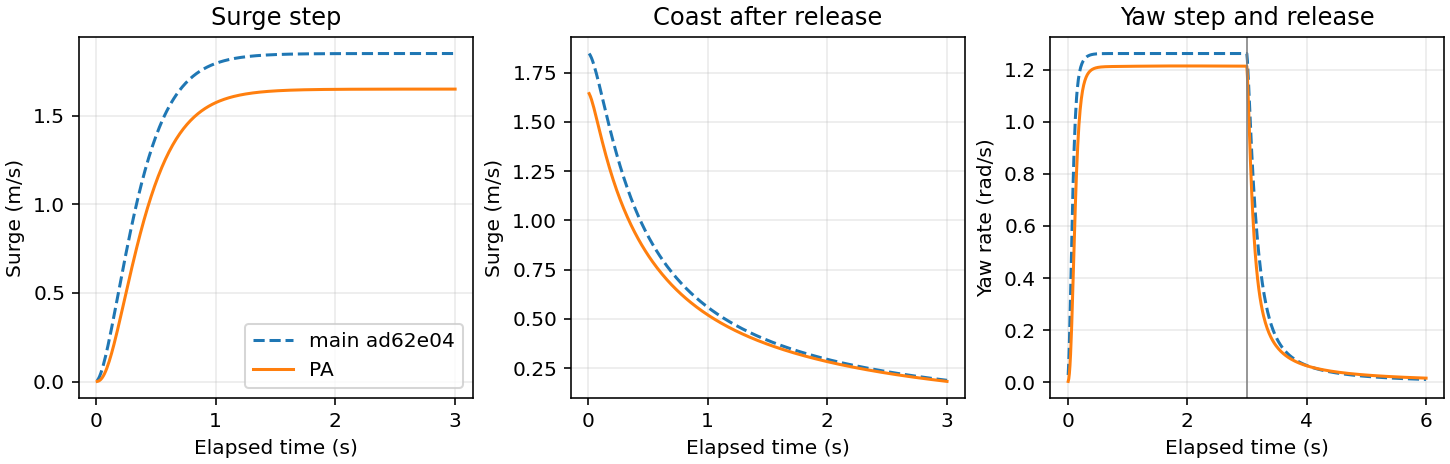
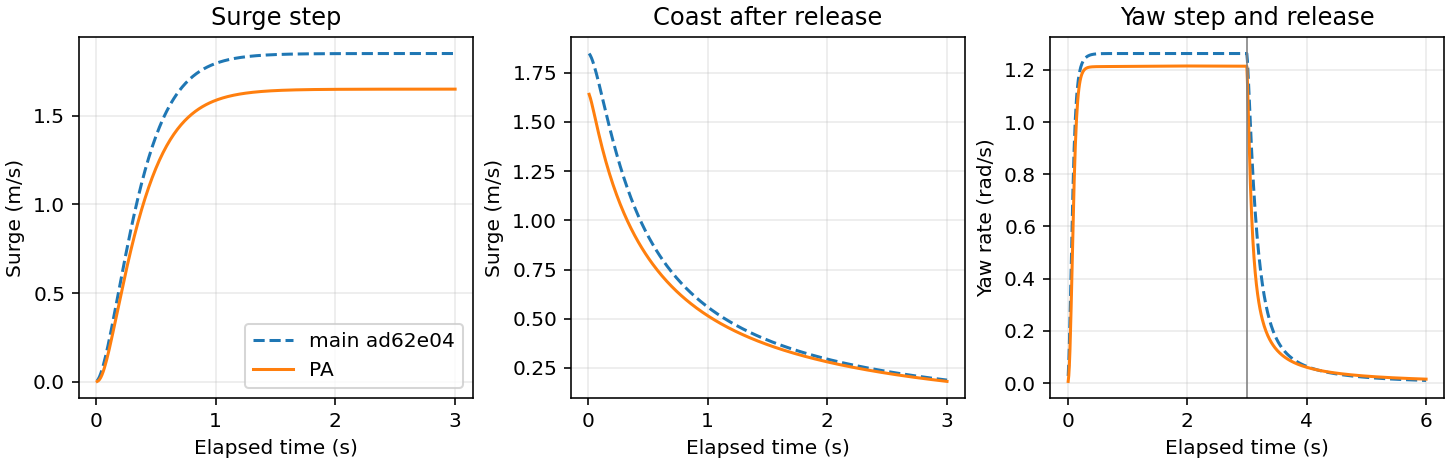
Preserve bollard-force rise time when converting to a shaft pole

diff --git a/simulator/qysim/vehicles.py b/simulator/qysim/vehicles.py
@@ -12,6 +12,11 @@ from .model_o import (
     ADDED_INERTIA, COMBINED_INERTIA, MEASURED_RATE, MEASURED_SPEED, MOTOR_TAU, NET_BUOYANCY_N, NOMINAL_FORWARD_N,
 )
 
+def shaft_time_constant(force_tau):
+    """Match the original bollard-force 63.2% step time with T proportional to n²."""
+    return -force_tau / math.log1p(-math.sqrt(-math.expm1(-1.0)))
+
+
 # Keys are the VehicleParams fields this entry overrides. Every value is traced in the calibration note.
 MODEL_O_ASSIST_GAIN = 3.0  # Reference-filter stiffness scale at full acceleration fraction.
 MODEL_O_PARAMS = {
@@ -21,7 +26,7 @@ MODEL_O_PARAMS = {
     "added_mass": (6.36, 7.12, 18.68),
     "inertia": COMBINED_INERTIA,
     "thruster_max": NOMINAL_FORWARD_N,
-    "motor_tau": -MOTOR_TAU / math.log1p(-math.sqrt(-math.expm1(-1.0))),
+    "motor_tau": shaft_time_constant(MOTOR_TAU),
     "vmax": MEASURED_SPEED,
     "wmax": MEASURED_RATE,
     "linear_drag": (13.7, 0.0, 33.0, 0.0, 0.8, 0.0),
@@ -63,7 +68,8 @@ X1_PARAMETERS = {'mass': {'value': 30.0, 'level': 'official', 'source': 'real-ro
  'thruster_max': {'value': 148.0,
                   'level': 'estimated',
                   'source': '暫定工程估算；非 X1 實測，見 real-rov-research.md 對齊清單'},
- 'motor_tau': {'value': 0.08, 'level': 'estimated', 'source': '暫定工程估算；非 X1 實測，見 real-rov-research.md 對齊清單'},
+ 'motor_tau': {'value': shaft_time_constant(.08), 'level': 'estimated',
+               'source': '暫定：沿用原繫樁推力上升時間 0.08 s，以 T ∝ n² 換算槳軸時間常數；待同步記錄轉速／推力'},
  'vmax': {'value': (2.314998, 1.28611, 0.771666),
           'level': 'reseller',
           'source': 'real-rov-research.md: 經銷商分軸速度；前進亦有官網宣稱'},
@@ -208,6 +214,8 @@ class HydroFit:
     kt_slope: float       # fractional bollard loss per unit positive advance ratio
     hull_loss: float      # estimated blocked fraction of disk thrust
     wake_loss: float      # additional fraction for unit coincident downstream disk
+    dry_depth_d: float = -.5   # hub half a diameter above the surface: even the lowest blade is dry
+    wet_depth_d: float = 1.    # assumed immersion for ventilation-free operation, in diameters
 
 
 HYDRO_FITS = {
@@ -216,6 +224,20 @@ HYDRO_FITS = {
     # Table A1 uses coincident principal axes. Published in-water coefficients
     # already include installation effects; allow only residual losses on this fit.
     "bluerov2_heavy": HydroFit(0., ADDED_INERTIA, .076, 65., .08, .002, .03),
+}
+
+# All catalogue fit values for X1 are provisional; evidence inventory export reads
+# the actual HydroFit so corrections need only be made in one place.
+X1_HYDRO_SOURCES = {
+    "added_centre_z": "暫定：流體慣性中心取 CG 上方半個 GM",
+    "rotary_added": "暫定：原有效轉動慣量的四分之一歸於附加慣量",
+    "diameter": "暫定：依重建導管外形估算槳徑，m",
+    "rated_rps": "暫定：設計工作點轉速假設，rev/s，待光學轉速計校正",
+    "kt_slope": "暫定：以線性開水域近似，一單位前進比損失三成靜推力",
+    "hull_loss": "暫定：機身裝機遮蔽造成的靜推力損失比例",
+    "wake_loss": "暫定：同軸近距離雙槳損失比例上界，再依軸距與橫距衰減",
+    "dry_depth_d": "暫定：槳心高於水面半個槳徑時全槳離水",
+    "wet_depth_d": "暫定：槳心在水面下一個槳徑時吸氣消失",
 }
 
 X1_THRUSTERS = X1_PARAMETERS["thrusters"]["value"]
@@ -283,7 +305,7 @@ VEHICLE_DEFINITIONS = {
         (-.20, 0., -.15), (.245, 0., -.015), ((.24, -.18, -.09), (.24, .18, -.09)), (.18, 0., .15)),
     "falcon": VehicleDefinition("falcon", "Falcon", "models/falcon.glb",
         dict(mass=60., reverse_ratio=.9, net_buoyancy=5., gm=.095, added_mass=(30., 45., 55.),
-             inertia=(4., 7., 8.), thruster_max=110., motor_tau=.18,
+             inertia=(4., 7., 8.), thruster_max=110., motor_tau=shaft_time_constant(.18),
              vmax=(1.5, 1., .6), wmax=(.5, .5, .8), linear_drag=(18., 28., 35., 3., 4., 4.)),
         tuple((f"T{i+1} HORIZONTAL", (x*.29, y*.16, .075), (.86, -x*y*.51, 0.))
               for i, (x,y) in enumerate(((1,-1),(1,1),(-1,-1),(-1,1))))

diff --git a/docs/reference/export_x1_parameters.py b/docs/reference/export_x1_parameters.py
@@ -3,17 +3,20 @@ from pathlib import Path
 import sys
 
 sys.path.insert(0, str(Path(__file__).resolve().parents[2] / 'simulator'))
-from qysim.vehicles import X1_PARAMETERS, X1_TETHER_PARAMETERS
+from qysim.vehicles import HYDRO_FITS, X1_HYDRO_SOURCES, X1_PARAMETERS, X1_TETHER_PARAMETERS
 
 
 def main():
-    lines = ['# X1 暫定參數', '', '唯一數值來源：`simulator/qysim/vehicles.py:X1_PARAMETERS`。',
+    lines = ['# X1 暫定參數', '', '參數及來源集中於 `simulator/qysim/vehicles.py`。',
              '實測後只改該表，再執行 `python docs/reference/export_x1_parameters.py`。',
              '目前沒有 measured；official 是廠商宣稱，reseller 是單一經銷商，estimated 是假設。', '',
              '| 參數 | 值（SI） | 等級 | 依據 |', '|---|---|---|---|']
     for key, item in {**X1_PARAMETERS, **{f"tether.{key}": item
                                         for key, item in X1_TETHER_PARAMETERS.items()}}.items():
         lines.append(f'| {key} | `{item["value"]}` | {item["level"]} | {item["source"]} |')
+    for key, source in X1_HYDRO_SOURCES.items():
+        value = getattr(HYDRO_FITS['x1'], key)
+        lines.append(f'| hydro.{key} | `{value}` | estimated | {source} |')
     Path(__file__).with_name('x1-parameters.md').write_text('\n'.join(lines) + '\n')
 
 

diff --git a/simulator/qysim/physics.py b/simulator/qysim/physics.py
@@ -370,7 +370,8 @@ class Vehicle:
         wake = self.forward_wake @ np.maximum(shaft, 0) + self.reverse_wake @ np.maximum(-shaft, 0)
         # Fully ventilated one radius above water, fully immersed one diameter below.
         depth = s.pos[2] + self.disks @ q_matrix(s.q)[2]
-        immersion = np.clip((depth / self.fit.diameter + .5) / 1.5, 0., 1.)
+        wet_range = self.fit.wet_depth_d - self.fit.dry_depth_d
+        immersion = np.clip((depth / self.fit.diameter - self.fit.dry_depth_d) / wet_range, 0., 1.)
         gain = np.clip(1 - self.fit.kt_slope * np.maximum(advance, 0), 0., 1.)
         gain *= immersion * np.maximum(0., 1 - self.fit.hull_loss - self.fit.wake_loss * wake)
         return shaft, p.thruster_max * shaft * abs(shaft) * gain

diff --git a/docs/reference/x1-parameters.md b/docs/reference/x1-parameters.md
@@ -1,6 +1,6 @@
 # X1 暫定參數
 
-唯一數值來源：`simulator/qysim/vehicles.py:X1_PARAMETERS`。
+參數及來源集中於 `simulator/qysim/vehicles.py`。
 實測後只改該表，再執行 `python docs/reference/export_x1_parameters.py`。
 目前沒有 measured；official 是廠商宣稱，reseller 是單一經銷商，estimated 是假設。
 
@@ -12,11 +12,11 @@
 | added_mass | `(15.0, 25.0, 30.0)` | estimated | 暫定工程估算；非 X1 實測，見 real-rov-research.md 對齊清單 |
 | inertia | `(1.1, 1.6, 1.8)` | estimated | 暫定工程估算；非 X1 實測，見 real-rov-research.md 對齊清單 |
 | thruster_max | `148.0` | estimated | 暫定工程估算；非 X1 實測，見 real-rov-research.md 對齊清單 |
-| motor_tau | `0.08` | estimated | 暫定工程估算；非 X1 實測，見 real-rov-research.md 對齊清單 |
+| motor_tau | `0.05047196008277468` | estimated | 暫定：沿用原繫樁推力上升時間 0.08 s，以 T ∝ n² 換算槳軸時間常數；待同步記錄轉速／推力 |
 | vmax | `(2.314998, 1.28611, 0.771666)` | reseller | real-rov-research.md: 經銷商分軸速度；前進亦有官網宣稱 |
 | wmax | `(2.0943951023931953, 1.5707963267948966, 1.5707963267948966)` | estimated | 暫定工程估算；非 X1 實測，見 real-rov-research.md 對齊清單 |
 | quadratic_drag | `None` | estimated | 暫定工程估算；非 X1 實測，見 real-rov-research.md 對齊清單 |
-| reverse_ratio | `1.0` | estimated | 暫定工程估算；非 X1 實測，見 real-rov-research.md 對齊清單 |
+| reverse_ratio | `0.9` | estimated | 暫定工程估算；非 X1 實測，見 real-rov-research.md 對齊清單 |
 | thrust_asymmetry | `True` | estimated | 暫定工程估算；非 X1 實測，見 real-rov-research.md 對齊清單 |
 | linear_drag | `(8.0, 12.0, 15.0, 1.0, 1.0, 1.0)` | estimated | 暫定工程估算；非 X1 實測，見 real-rov-research.md 對齊清單 |
 | thrusters | `(('T1 PORT_FRONT', (0.25, -0.193, 0.032), (0.32, -0.54, -0.78)), ('T2 STBD_FRONT', (0.25, 0.193, 0.032), (0.32, 0.54, -0.78)), ('T3 PORT_AFT', (-0.251, -0.171, -0.035), (-0.28, -0.48, 0.83)), ('T4 STBD_AFT', (-0.251, 0.171, -0.035), (-0.28, 0.48, 0.83)), ('T5 PORT_LONG', (-0.061, -0.205, 0.068), (-1.0, 0.0, 0.0)), ('T6 STBD_LONG', (-0.061, 0.205, 0.068), (-1.0, 0.0, 0.0)))` | estimated | Blender 重建／工程假設，非實測；見 real-rov-research.md 幾何缺口 |
@@ -80,3 +80,12 @@
 | tether.substeps | `10` | estimated | 數值求解設定，非物理量；見 tether_solver.py |
 | tether.contact_cache_m | `0.01` | estimated | 數值求解設定，非物理量；見 tether_solver.py |
 | tether.accelerated | `True` | estimated | 數值求解設定，非物理量；見 tether_solver.py |
+| hydro.added_centre_z | `-0.015` | estimated | 暫定：流體慣性中心取 CG 上方半個 GM |
+| hydro.rotary_added | `(0.275, 0.4, 0.45)` | estimated | 暫定：原有效轉動慣量的四分之一歸於附加慣量 |
+| hydro.diameter | `0.11` | estimated | 暫定：依重建導管外形估算槳徑，m |
+| hydro.rated_rps | `65.0` | estimated | 暫定：設計工作點轉速假設，rev/s，待光學轉速計校正 |
+| hydro.kt_slope | `0.3` | estimated | 暫定：以線性開水域近似，一單位前進比損失三成靜推力 |
+| hydro.hull_loss | `0.015` | estimated | 暫定：機身裝機遮蔽造成的靜推力損失比例 |
+| hydro.wake_loss | `0.12` | estimated | 暫定：同軸近距離雙槳損失比例上界，再依軸距與橫距衰減 |
+| hydro.dry_depth_d | `-0.5` | estimated | 暫定：槳心高於水面半個槳徑時全槳離水 |
+| hydro.wet_depth_d | `1.0` | estimated | 暫定：槳心在水面下一個槳徑時吸氣消失 |

diff --git a/docs/tasks/PA-vehicle-hydro.md b/docs/tasks/PA-vehicle-hydro.md
@@ -7,7 +7,7 @@
 - 剛體質量矩陣在 CG 的主軸上為對角矩陣。將流體主軸的附加動能寫成 ½(Tνᵣ)ᵀA(Tνᵣ)，其中 T 把速度移到流體慣性中心，得到 CG 處的完整矩陣 TᵀAT。左右對稱保留零項。X1 暫定流體中心在 CG 上方 15 mm，故前進－俯仰的交叉項為 −0.225 kg·m。Model O 使用論文的對角模型。
 - 依線與角動量組成反對稱的科氏矩陣，分別以 ν 和 νᵣ 作用，包含 −vᵣ × pₐ 的 Munk 力矩。洋流加速度從 NED 轉回機體時包含機體旋轉的搬運項。六軸阻尼為 Dᵢ = Lᵢ + Qᵢ |νᵣᵢ|。正浮力在 NED 朝上，浮力在 CB 的力臂提供扶正。
 - 半隱式步進將當步的 C 和 D 乘以下一步速度，解一個 6×6 線性系統，再以新速度更新位置與四元數。C 反對稱，D 半正定，因此靜水中移除推力、外載與回復力後，單步離散動能不增加。
-- 指令先對應正反轉繫樁力，再以 T ∝ n|n| 換成目標轉速。一階轉速響應使用指數離散化。槳心來流包含機身平移、當地洋流及 ω × r。前進比取軸向相對速度除以 |n|D，正向進流降低推力，逆流增推與四象限風車效應待量測。
+- 指令先對應正反轉繫樁力，再以 T ∝ n|n| 換成目標轉速。一階轉速響應使用指數離散化。沿用原本的繫樁推力 63.2% 上升時間換算轉速極點，X1 暫定 0.08 s 推力反應對應 0.0505 s 轉速時間常數。槳心來流包含機身平移、當地洋流及 ω × r。前進比取軸向相對速度除以 |n|D，正向進流降低推力，逆流增推與四象限風車效應待量測。
 - 尾流沿出流方向延伸，依槳盤橫向間距作高斯衰減，依軸距作反比例衰減。另以機身遮蔽比例估算裝機損失。槳心在水面上半個槳徑時推力為零，在水面下一個槳徑時回復全浸值。這些損失均為工程假設；Model O 水池係數已部分包含裝機效應，另加的損失取小值。
 - X1 的轉動附加慣量暫取原有效慣量的四分之一，反轉繫樁比暫取 0.90。槳徑依幾何尺度估算，額定轉速、前進比斜率與遮蔽、尾流係數均待同步轉速與推力秤試驗。詳見 [X1 待量測清單](../reference/x1-measurement-checklist.md) 與 [Model O 水池對照](../reference/model-o-calibration.md)。
 
@@ -20,7 +20,7 @@
 | 指標 | main | PA |
 |---|---:|---:|
 | 3 s 前進速度 | 1.852 m/s | 1.651 m/s |
-| 鬆桿 3 s 內前進速度分量的積分 | 1.664 m | 1.518 m |
+| 鬆桿 3 s 內前進速度分量的積分 | 1.664 m | 1.498 m |
 | 3 s 偏航率 | 1.262 rad/s | 1.214 rad/s |
 
 可在 PR 根目錄以同一程式輸出兩版的逐步曲線及 Vehicle.step 耗時。第一次將 PYTHONPATH 指向基底檢出的 simulator 目錄，第二次指向目前目錄。
